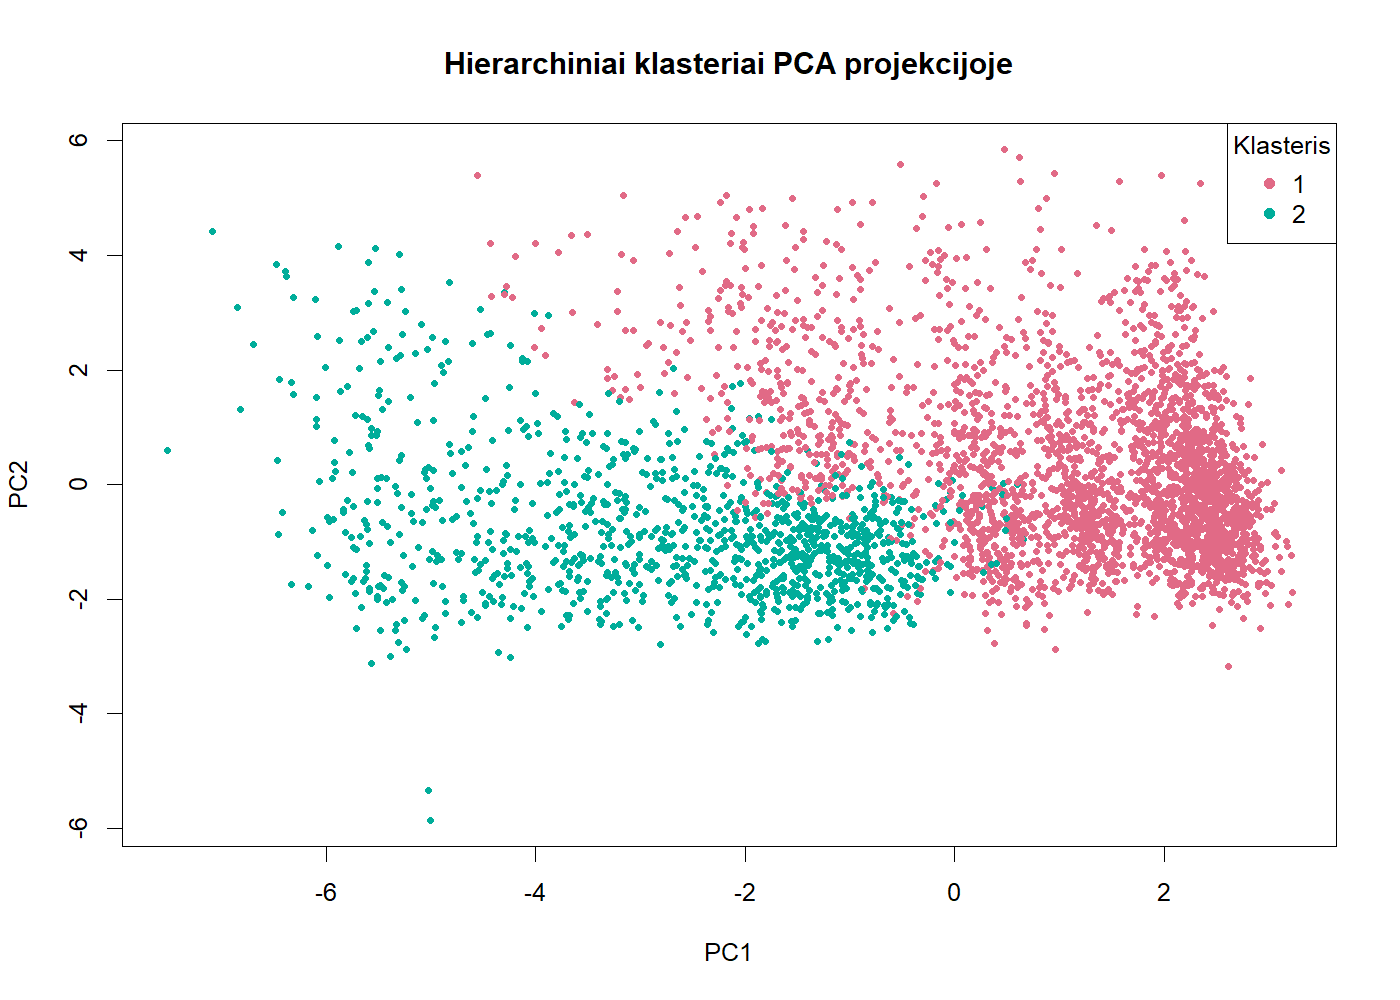
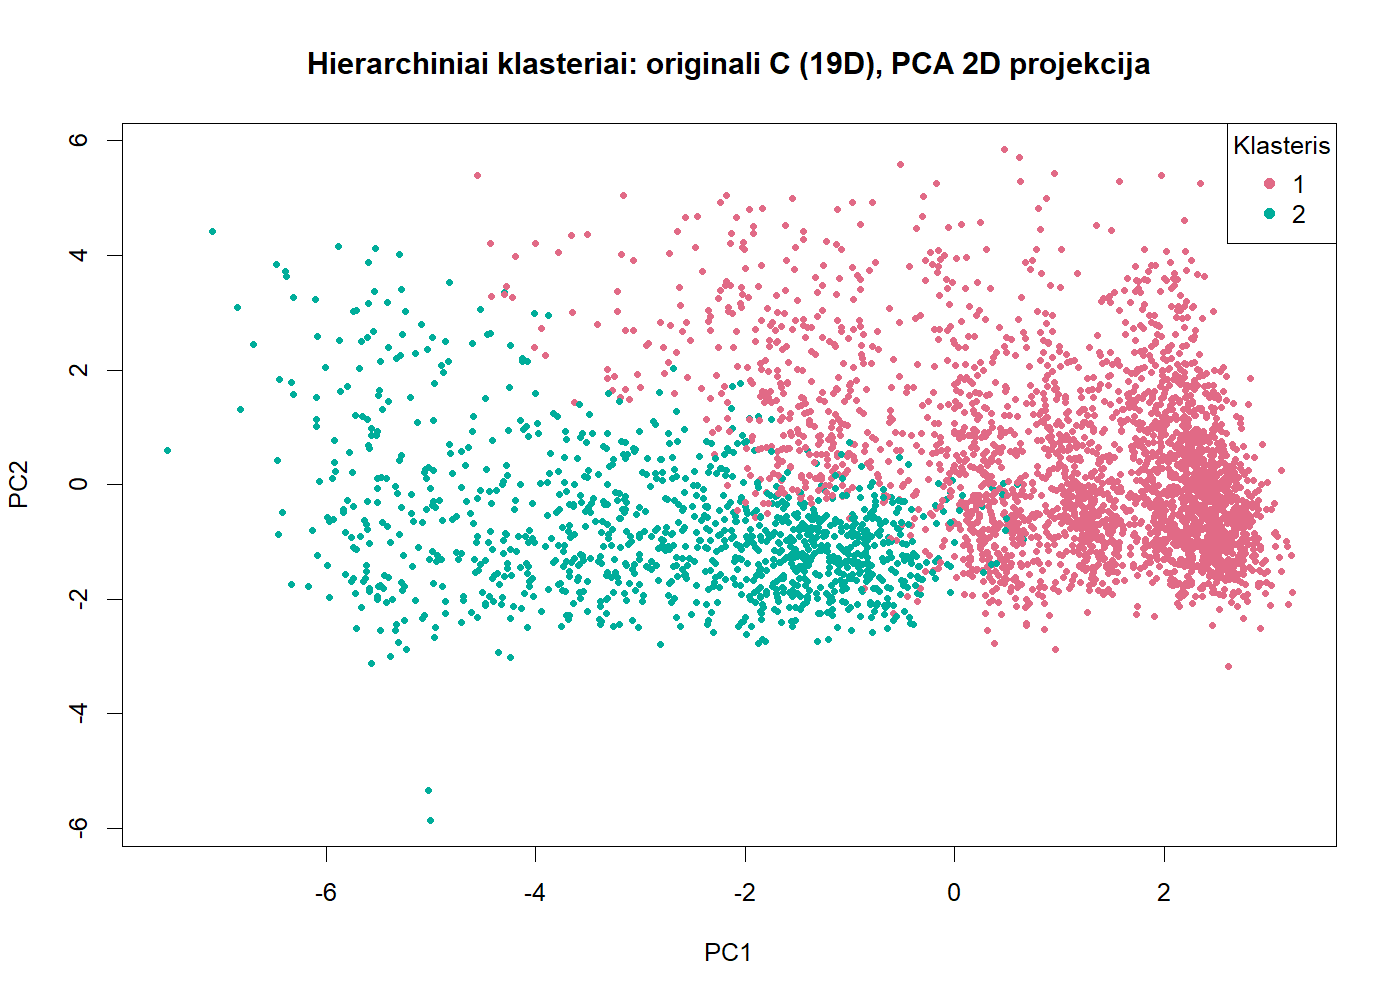
readme hc ir papildomi

Changed region(s): [[0.215, 0.031, 0.8293, 0.093]]

diff --git a/README.md b/README.md
@@ -959,7 +959,195 @@ Grafikai išsaugoti `grafikai/` aplanke:
 
 Skaičiavimai atlikti `kmeans.R` failo 32 ir 33 skyriuose.
 
+## Hierarchinis klasterizavimas
 
+Hierarchinį klasterizavimą atlikome tose pačiose trijose erdvėse kaip ir K-means: originalioje C aibėje (19D), PCA 5D ir t-SNE 2D. Visose aibėse yra tie patys 3928 objektai, suderinti pagal `id`. `id` ir `class` klasterizavimui nenaudoti. Kodas yra `hierarchinis.R` faile.
+
+### 1. Parametrų parinkimas
+
+Kiekvienoje erdvėje klasterizavimą kartojome iš naujo, lygindami 7 atstumo ir jungimo metodo derinius:
+
+| Atstumas | Jungimo metodas |
+|---|---|
+| euclidean | single, complete, average, ward.D2 |
+| manhattan | single, complete, average |
+
+`ward.D2` taikytas tik su euklidiniu atstumu, nes Ward metodas apibrėžtas kvadratiniams euklidiniams atstumams.
+
+Klasterių skaičių tikrinome nuo `k = 2` iki `k = 10` ir parinkome **pagal dendrogramą**, t. y. pagal didžiausią aukščio šuolį prieš apjungimą:
+
+- Skirtingų konfigūracijų aukščiai turi skirtingas skales (manhattan aukščiai didesni nei euclidean, Ward didesni nei single), todėl šuolį **normalizavome** pagal didžiausią medžio aukštį (`santykinis_suolis`).
+- Atmetėme `k`, kurio bent vienas klasteris sudaro mažiau nei **1 %** objektų. Dėl šio reikalavimo atkrito single ir average konfigūracijos, kurios atskiria po 1–2 išskirtis.
+- Silhouette skaičiavome kiekvienos konfigūracijos geriausiam `k`.
+
+Stipriai koreliuoti požymiai (`|r| ≥ 0,90`) nebuvo šalinami, kad hierarchinis klasterizavimas būtų lyginamas su K-means toje pačioje aibėje. Jų sąrašas išsaugotas `rezultatai/hierarchinis_stipriai_koreliuoti_pozymiai.csv`.
+
+### 2. Klasterių skaičiaus parinkimas pagal dendrogramą
+
+Visose trijose erdvėse didžiausią santykinį šuolį ir tinkamą klasterių dydį turėjo `euclidean_ward.D2` su `k = 2`:
+
+| Erdvė | Konfigūracija | k | Santykinis šuolis | Mažiausias klasteris | Kitas didžiausias šuolis |
+|---|---|---:|---:|---:|---|
+| Originali C (19D) | euclidean_ward.D2 | 2 | 0,3505 | 29,56 % | k = 3: 0,2291 |
+| PCA 5D | euclidean_ward.D2 | 2 | 0,5651 | 38,34 % | k = 5: 0,1126 |
+| t-SNE 2D | euclidean_ward.D2 | 2 | 0,4045 | 30,83 % | k = 4: 0,2311 |
+
+PCA ir t-SNE erdvėse `k = 2` šuolis aiškiai didesnis už kitus. Originalioje erdvėje `k = 3` šuolis taip pat pastebimas, tačiau `k = 2` išlieka didžiausias.
+
+Kitos konfigūracijos originalioje erdvėje (geriausias leistinas k): `manhattan_complete` k = 2 (0,2878), `euclidean_complete` k = 3 (0,1824). Single ir average konfigūracijos neatitiko 1 % klasterio dydžio reikalavimo.
+
+**Originali C (19D)**
+
+![Pasirinkta dendrograma, originali C aibė](grafikai/hierarchinis_dendrograma_pasirinktas.png)
+
+**PCA 5D**
+
+![Pasirinkta dendrograma, PCA 5D](grafikai/hierarchinis_dendrograma_pasirinktas_pca.png)
+
+**t-SNE 2D**
+
+![Pasirinkta dendrograma, t-SNE 2D](grafikai/hierarchinis_dendrograma_pasirinktas_tsne.png)
+
+Raudona punktyrinė linija žymi pjovimo aukštį. Visų 7 konfigūracijų dendrogramos yra `grafikai/hierarchinis_dendrogramos.pdf` (PCA ir t-SNE – su priesagomis `_pca`, `_tsne`), o šuoliai – `rezultatai/hierarchinis_dendrogramos_suoliai.csv`.
+
+### 3. Hierarchinis klasterizavimas originalioje C aibėje (19D)
+
+Pasirinkta konfigūracija: `euclidean_ward.D2`, `k = 2`. Gauti du klasteriai:
+
+| Rodiklis | 1 klasteris | 2 klasteris |
+|---|---:|---:|
+| Objektų skaičius | 2767 (70,4 %) | 1161 (29,6 %) |
+| Karatų mediana | 0,50 | 1,23 |
+| Kainos mediana | 1295 | 7903 |
+| Tūrio (`volume_xyz`) mediana | 80,24 | 201,35 |
+| Kainos už karatą mediana | 2926,67 | 6104,98 |
+| Kainos už tūrį mediana | 17,84 | 37,64 |
+| `depth` / `table` mediana | 61,5 / 57 | 62 / 58 |
+| `length_width_ratio` mediana | 1,002 | 1,006 |
+
+**1 klasteris** apima mažesnius ir pigesnius deimantus (apie 0,5 karato), o **2 klasteris** – didesnius ir brangesnius (apie 1,2 karato), kurių kaina vienam karatui maždaug dvigubai didesnė. Proporcijų požymiai (`depth`, `table`, `length_width_ratio`, `depth_ratio`, `table_depth_ratio`, `dimension_cv`) tarp klasterių beveik nesiskiria, todėl klasteriai skiria **dydį ir kainą, o ne formą**. Tai atitinka K-means rezultatą, nors klasterių dydžiai skiriasi (K-means: 2399 ir 1529 objektai).
+
+Klasterių medianos originaliais vienetais išsaugotos `rezultatai/hierarchinis_klasteriu_medianos.csv`.
+
+#### Klasterių sudėtis pagal klases
+
+| Klasė | 1 klasteris | 2 klasteris |
+|---|---:|---:|
+| Ideal | 1474 (53,27 %) | 489 (42,12 %) |
+| Premium | 1293 (46,73 %) | 672 (57,88 %) |
+
+Abi klasės pasitaiko abiejuose klasteriuose, o bendras klasių santykis yra beveik 50 : 50. Todėl klasteriai nėra tapatūs `Ideal` ir `Premium`, o labiau atspindi dydžio ir kainos skirtumus.
+
+#### Klasterių vizualizacija
+
+![Hierarchiniai klasteriai PCA 2D projekcijoje](grafikai/hierarchinis_klasteriai_PCA.png)
+
+Originalioje 19D erdvėje gauti klasteriai pavaizduoti pirmųjų dviejų pagrindinių komponenčių projekcijoje. Projekcija naudota tik vizualizacijai.
+
+### 4. Hierarchinis klasterizavimas PCA 5D ir t-SNE 2D aibėse
+
+Abiejose sumažintose erdvėse parametrus parinkome iš naujo tuo pačiu principu (žr. 2 skyrių). Abiem atvejais gauta ta pati konfigūracija `euclidean_ward.D2` su `k = 2`, tačiau klasterių dydžiai skiriasi:
+
+| Erdvė | 1 klasteris | 2 klasteris |
+|---|---:|---:|
+| Originali C (19D) | 2767 (70,4 %) | 1161 (29,6 %) |
+| PCA 5D | 1506 (38,3 %) | 2422 (61,7 %) |
+| t-SNE 2D | 2717 (69,2 %) | 1211 (30,8 %) |
+
+Klasterių numeriai skirtingose erdvėse yra savavališki, todėl dydžius reikia lyginti kaip dvi grupes, o ne pagal numerį. t-SNE 2D dydžiai beveik sutampa su originaliais (70 % ir 30 %), o PCA 5D skirstymas kitoks (apie 38 % ir 62 %).
+
+### 5. Vidiniai kokybės rodikliai
+
+| Rodiklis | Originali C (19D) | PCA 5D | t-SNE 2D |
+|---|---:|---:|---:|
+| Silhouette ↑ | 0,3344 | **0,3816** | 0,3750 |
+| Calinski–Harabasz ↑ | 2037,73 | 2828,64 | **3017,31** |
+| Davies–Bouldin ↓ | 1,1945 | 1,0946 | **0,8997** |
+
+Originali C aibė pagal visus tris rodiklius turi silpniausias reikšmes. Silhouette didžiausias PCA 5D erdvėje, o Calinski–Harabasz ir Davies–Bouldin – t-SNE 2D erdvėje. Tačiau vidiniai rodikliai skaičiuoti skirtingose erdvėse, o t-SNE atveju atstumų struktūra pakeista, todėl vien jų negalima laikyti įrodymu, kad originali struktūra išsaugota geriau.
+
+### 6. Rezultatų palyginimas naudojant išorinius rodiklius
+
+Klasterių priskyrimus trijose erdvėse palyginome pagal ARI, NMI ir Jaccard indeksus.
+
+| Palyginimas | ARI ↑ | NMI ↑ | Jaccard ↑ |
+|---|---:|---:|---:|
+| Originali 19D ir PCA 5D | 0,5912 | 0,5059 | 0,6915 |
+| Originali 19D ir t-SNE 2D | **0,8340** | **0,7233** | **0,8692** |
+| PCA 5D ir t-SNE 2D | 0,6601 | 0,5759 | 0,7343 |
+
+Hierarchinio klasterizavimo atveju t-SNE 2D suskirstymas yra artimesnis originaliam nei PCA 5D (ARI 0,834 prieš 0,591). Tai priešinga K-means rezultatui, kur PCA beveik visiškai sutapo su originaliu (ARI 0,9959). Pagal ARI ir NMI išlieka tik vidutinis sutapimas tarp PCA ir originalaus suskirstymo, o pagal Jaccard – šiek tiek aukštesnis.
+
+Sutampančių objektų lentelės išsaugotos:
+
+- `rezultatai/hierarchinis_sutampantys_taskai_originali_pca.csv`
+- `rezultatai/hierarchinis_sutampantys_taskai_originali_tsne.csv`
+- `rezultatai/hierarchinis_sutampantys_taskai_pca_tsne.csv`
+
+Atsiskyrėlių (klasterių < 1 %) pasirinktuose `k` nėra, nes jie buvo atmesti pačiame `k` parinkimo etape, todėl `hierarchinis_mazu_klasteriu_id.csv` tuščias.
+
+### 7. Hierarchinio klasterizavimo stabilumo tyrimas
+
+Stabilumą vertinome pagal tą pačią metodiką kaip K-means: **N = 10** atsitiktinių 80 % imčių (imčių sėklos nuo `42` iki `51`). Kiekvienoje imtyje:
+
+1. Iš nenormuotos C aibės atrinkome 80 % objektų (3142).
+2. Normavome robust scaling (mediana ir IQR) tik tos imties duomenimis.
+3. PCA 5D atveju iš naujo skaičiavome PCA ir ėmėme pirmas 5 komponentes. t-SNE 2D atveju iš naujo skaičiavome t-SNE projekciją.
+4. Atlikome hierarchinį klasterizavimą su pasirinkta konfigūracija (`euclidean_ward.D2`, `k = 2`).
+5. Imtis palyginome poromis (45 poros) tik bendriems objektams, pagal ARI, NMI ir Jaccard.
+
+#### Išoriniai stabilumo rodikliai (vidurkis ± SD)
+
+| Rodiklis | Originali 19D | PCA 5D | t-SNE 2D |
+|---|---:|---:|---:|
+| ARI | 0,7132 ± 0,0982 | 0,6960 ± 0,1346 | 0,4260 ± 0,2336 |
+| NMI | 0,6190 ± 0,0967 | 0,6086 ± 0,1302 | 0,4470 ± 0,1524 |
+| Jaccard | 0,7617 ± 0,0726 | 0,7590 ± 0,0936 | 0,5931 ± 0,1304 |
+
+#### ARI sklaida
+
+**Originali 19D**
+
+![Hierarchinio klasterizavimo stabilumas, originali 19D](grafikai/hierarchinis_stabilumo_ARI.png)
+
+**PCA 5D**
+
+![Hierarchinio klasterizavimo stabilumas, PCA 5D](grafikai/hierarchinis_stabilumo_ARI_pca.png)
+
+**t-SNE 2D**
+
+![Hierarchinio klasterizavimo stabilumas, t-SNE 2D](grafikai/hierarchinis_stabilumo_ARI_tsne.png)
+
+#### Vidinių rodiklių stabilumas (vidurkis ± SD)
+
+| Rodiklis | Originali 19D | PCA 5D | t-SNE 2D |
+|---|---:|---:|---:|
+| Silhouette | 0,3478 ± 0,0089 | 0,3634 ± 0,0157 | 0,3895 ± 0,0266 |
+| Calinski–Harabasz | 1937,16 ± 83,77 | 2048,49 ± 219,59 | 2618,74 ± 385,77 |
+| Davies–Bouldin | 1,1773 ± 0,0201 | 1,1334 ± 0,0335 | 0,9362 ± 0,0553 |
+
+Silhouette, Calinski–Harabasz ir Davies–Bouldin 80 % imtyse šiek tiek skiriasi nuo pilnos aibės reikšmių (5 skyrius), nes imtys mažesnės, o Calinski–Harabasz taip pat priklauso nuo objektų skaičiaus. Tačiau abiejų rinkinių tendencija ta pati: originali erdvė silpniausia, t-SNE turi didžiausią sklaidą.
+
+### 7.1. Dimensijos mažinimo efektyvumo vertinimas
+
+Dimensijos mažinimas klasterizavime laikomas efektyviu, kai vidiniai matai pagerėja, o išoriniai rodikliai su originalia erdve išlieka aukšti (arčiau 1). Gautus rezultatus palyginome su šiuo kriterijumi:
+
+| Erdvė | Vidiniai matai (Silhouette ↑, CH ↑, DB ↓) | Išoriniai matai su originalia (ARI ↑) | Stabilumas (ARI ↑) | Vertinimas |
+|---|---|---:|---:|---|
+| PCA 5D | pagerėjo pagal visus tris (0,3344 → 0,3816; 2037,73 → 2828,64; 1,1945 → 1,0946) | 0,5912 | 0,6960 | vidiniai matai geresni, tačiau suskirstymas gerokai pasikeitė |
+| t-SNE 2D | pagerėjo pagal visus tris (→ 0,3750; 3017,31; 0,8997) | 0,8340 | 0,4260 | vidiniai matai ir sutapimas geri, tačiau stabilumas žemas |
+
+Nė viena sumažinta erdvė neatitinka kriterijaus visais aspektais. PCA 5D pagerino vidinius matus, bet pakeitė suskirstymą, o t-SNE 2D išlaikė suskirstymą artimiausią originaliam, bet buvo nestabilus. Be to, vidiniai matai skaičiuoti skirtingose erdvėse, todėl jų pagerėjimas pats savaime neįrodo geresnės klasterizacijos.
+
+### 8. Hierarchinio klasterizavimo išvados
+
+1. **Visose trijose erdvėse dendrograma rodo `k = 2`.** Šuolis ypač ryškus PCA 5D (0,565) ir t-SNE 2D (0,404) erdvėse. Originalioje erdvėje `k = 3` šuolis (0,229) yra antras.
+2. **Klasteriai atskiria deimanto dydį ir kainą.** Antrame klasteryje karatų mediana apie 2,5 karto, o kainos mediana apie 6 kartus didesnė, tuo tarpu proporcijų požymiai beveik nesiskiria. Klasės `Ideal` ir `Premium` pasiskirsčiusios abiejuose klasteriuose.
+3. **Dimensijos mažinimo poveikis.** Hierarchinio klasterizavimo rezultatai po dimensijos mažinimo pasikeitė labiau nei K-means. Originalus ir PCA 5D suskirstymai sutampa tik vidutiniškai (ARI 0,591), o su t-SNE 2D sutampa geriau (ARI 0,834). Vidiniai rodikliai sumažintose erdvėse palankesni, tačiau jie skaičiuoti skirtingose erdvėse, todėl vien jais negalima teigti, kad struktūra išsaugota geriau.
+4. **Stabilumas.** Hierarchinis klasterizavimas yra mažiau stabilus nei K-means. Originalioje 19D ir PCA 5D erdvėse ARI vidurkis siekia apie 0,70–0,71 (K-means ~0,99), o t-SNE 2D – tik 0,426 su dideliu nuokrypiu (± 0,234; K-means 0,817). Tai rodo, kad dviejų klasterių riba jautri imties sudėčiai, ypač t-SNE projekcijoje, kuri kiekvienoje imtyje perskaičiuojama iš naujo.
+5. **Palyginimas su K-means.** Abu metodai randa tą pačią dydžio ir kainos struktūrą, tačiau K-means yra stabilesnis ir mažiau jautrus dimensijos mažinimui. Hierarchinis Ward klasterizavimas suteikia aiškią dendrogramą ir daugiau objektų priskiria pirmam klasteriui (2767 prieš 2399).
+
+Visi skaičiavimai atlikti `hierarchinis.R` faile.
 
 
 ## DBSCAN klasterizavimas
